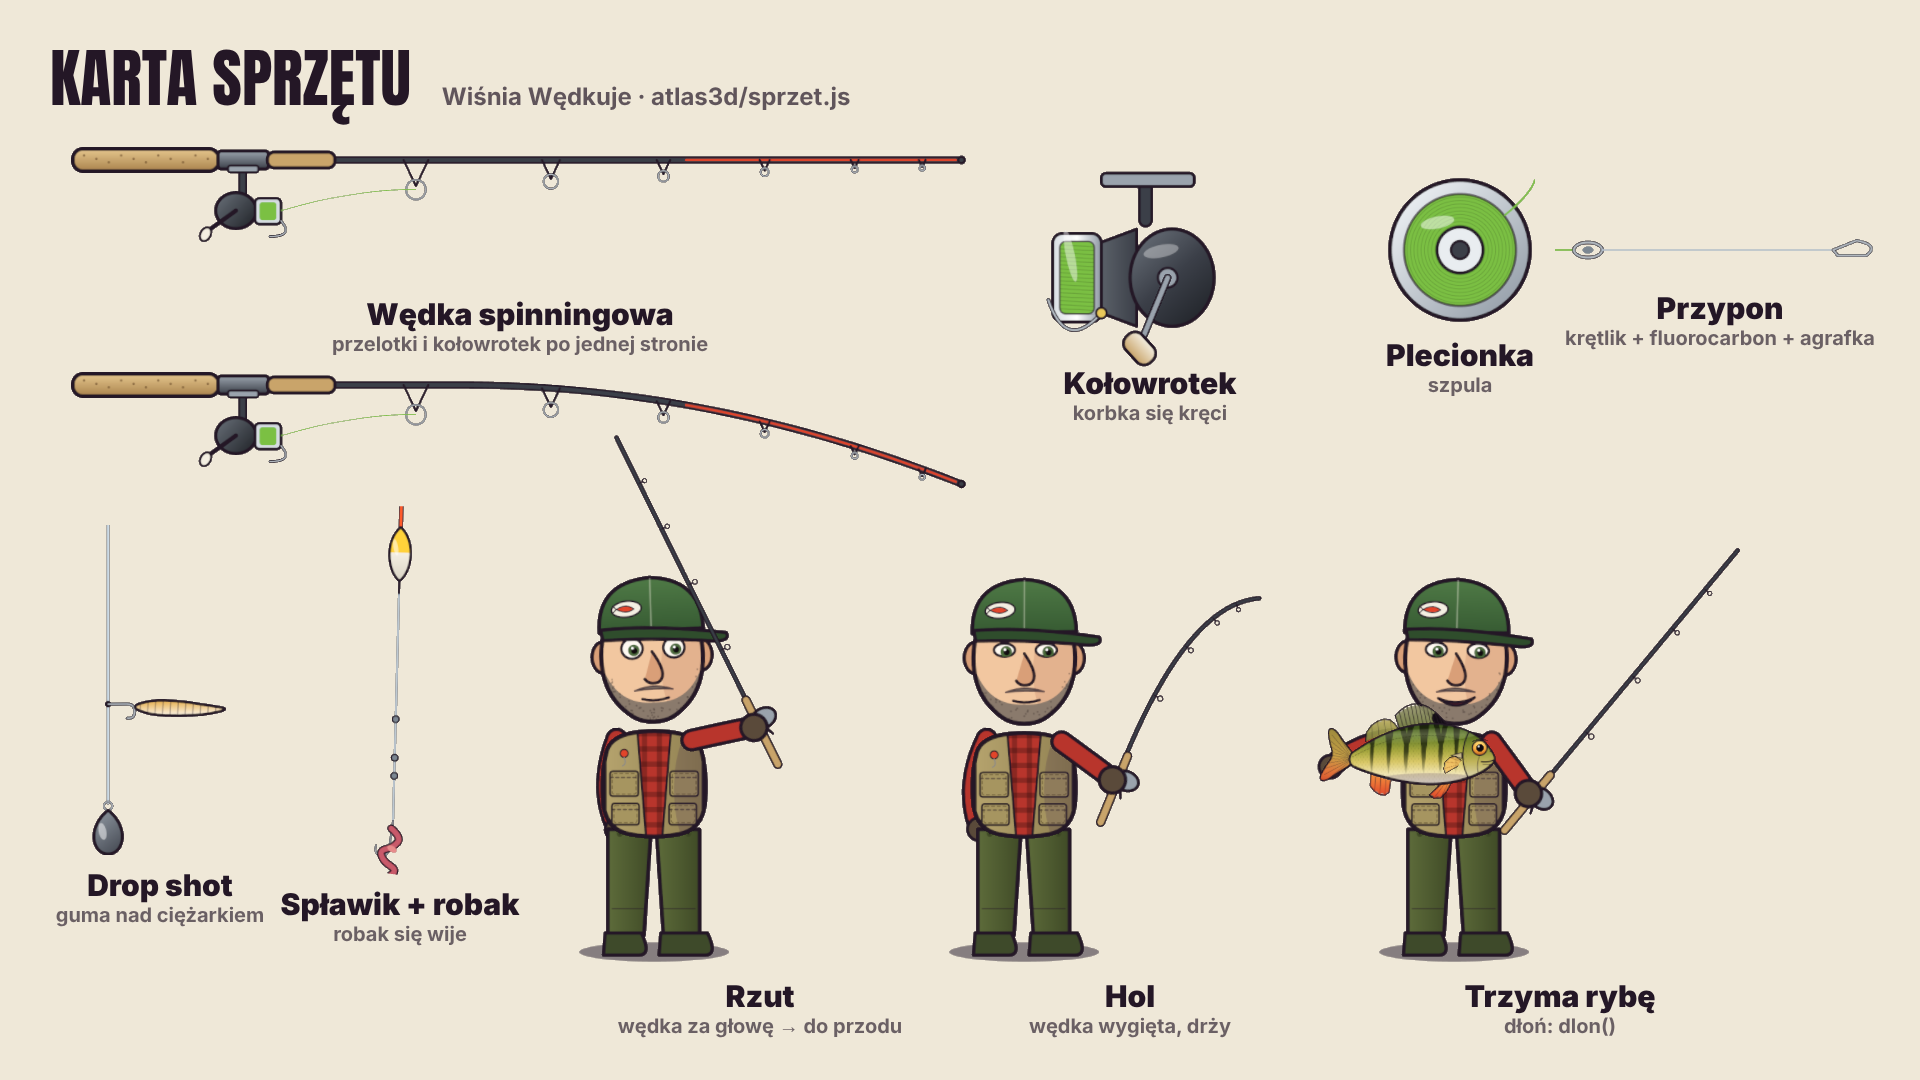
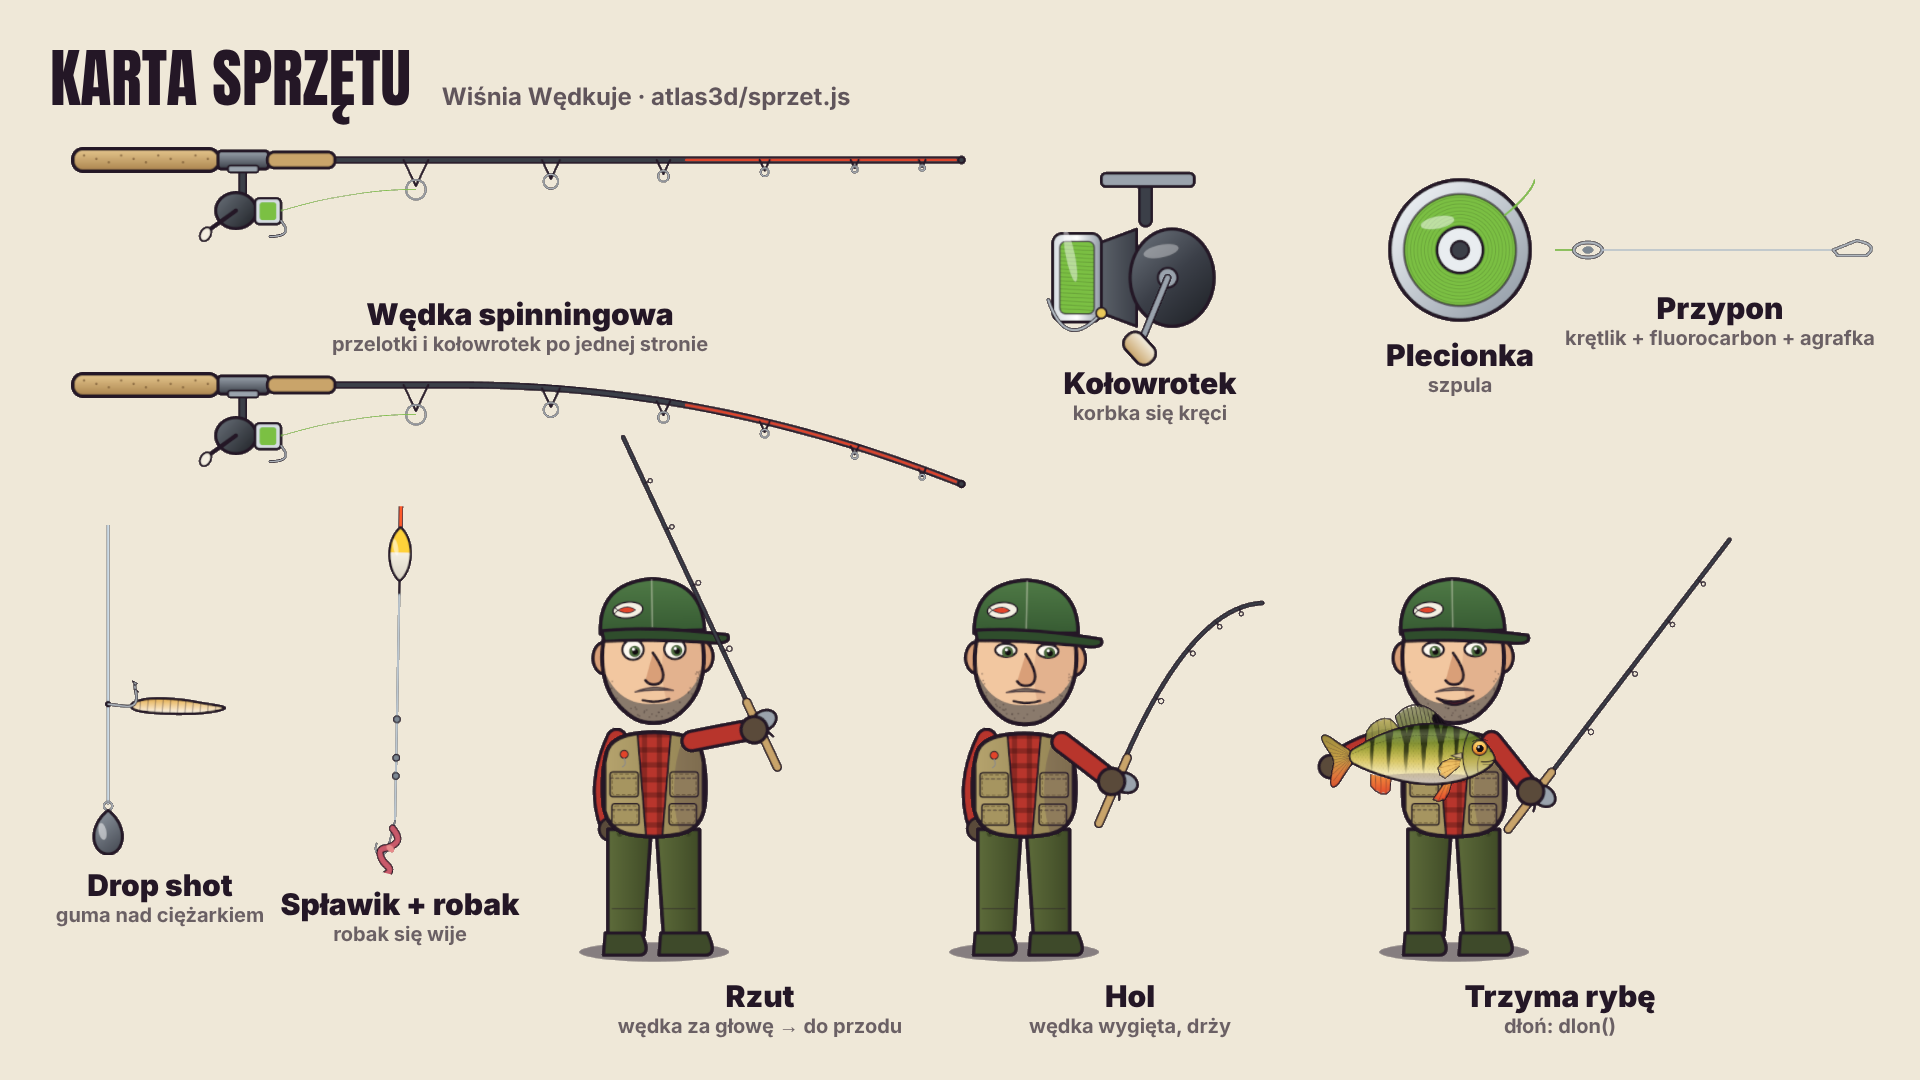
Drop shot: haczyk wiązany prosto do linki, grot do góry, guma za nos
Claude-Session: https://claude.ai/code/session_01YFDAx3363ZnHR5mXZwci3a

diff --git a/atlas3d/sprzet.js b/atlas3d/sprzet.js
@@ -113,11 +113,14 @@ export function stworzDropShot({ dl = .7, guma = '#e2a63c' } = {}) {
     blik(g, 138, 650, 8, 18, .5);
     g.beginPath(); g.arc(150, 380, 7, 0, 7); wypelnij(g, INK);                                                                     // węzeł Palomar
   }, { kolejnosc: 0 });
-  const przyneta = czesc(s, ...O, [140, 300, 420, 470], HAK, g => {                                                              // haczyk wiązany w bok + mała guma za nos
-    g.beginPath(); g.moveTo(150, 380); g.lineTo(190, 380); g.quadraticCurveTo(206, 380, 206, 396); g.quadraticCurveTo(206, 412, 190, 410); obrys(g, 7); g.beginPath(); g.moveTo(150, 380); g.lineTo(190, 380); g.quadraticCurveTo(206, 380, 206, 396); g.quadraticCurveTo(206, 412, 190, 410); obrys(g, 3, STAL);
-    const ks = [[196, 386], [240, 372], [300, 374], [360, 384], [410, 392], [360, 404], [300, 406], [240, 404]];
-    gladko(g, ks); wypelnij(g, lg(g, 0, 370, 0, 410, [[0, guma], [1, '#ffffff']])); g.save(); gladko(g, ks); g.clip();
-    for (let x = 220; x < 400; x += 16) { g.beginPath(); g.moveTo(x, 360); g.lineTo(x - 4, 420); obrys(g, 2.5, 'rgba(36,23,38,.35)'); } g.restore(); gladko(g, ks); obrys(g, 6);
+  const przyneta = czesc(s, ...O, [140, 300, 420, 470], HAK, g => {   // haczyk wiązany prosto do linki (Palomar), grot do góry, guma za nos
+    const ks = [[198, 376], [240, 366], [300, 368], [360, 378], [410, 386], [360, 398], [300, 400], [240, 398], [200, 392]];
+    gladko(g, ks); wypelnij(g, lg(g, 0, 364, 0, 402, [[0, guma], [1, '#ffffff']])); g.save(); gladko(g, ks); g.clip();
+    for (let x = 220; x < 400; x += 16) { g.beginPath(); g.moveTo(x, 356); g.lineTo(x - 4, 412); obrys(g, 2.5, 'rgba(36,23,38,.35)'); } g.restore(); gladko(g, ks); obrys(g, 6);
+    const hak = () => { g.beginPath(); g.moveTo(150, 380); g.lineTo(184, 384); g.quadraticCurveTo(212, 388, 210, 362); g.lineTo(206, 340); };
+    hak(); obrys(g, 7); hak(); obrys(g, 3, STAL);                                                                                // trzonek, kolanko, grot do góry przez nos gumy
+    g.beginPath(); g.moveTo(206, 340); g.lineTo(201, 330); g.lineTo(212, 336); g.closePath(); wypelnij(g, STAL); obrys(g, 2.5);  // grot
+    g.beginPath(); g.moveTo(207, 348); g.lineTo(215, 354); obrys(g, 2.5);                                                       // zadzior
   }, { kolejnosc: 1 });
   const grupa = zloz([linka, przyneta], kb); podepnij(linka, przyneta); const f = Math.random() * 6;
   grupa.userData.sprzet = { dl, nos: pkt(s, O, [150, 0]), anim: (t) => { przyneta.rotation.z = .08 * Math.sin(t * 6 + f) + .05 * Math.sin(t * 13 + f); } };
